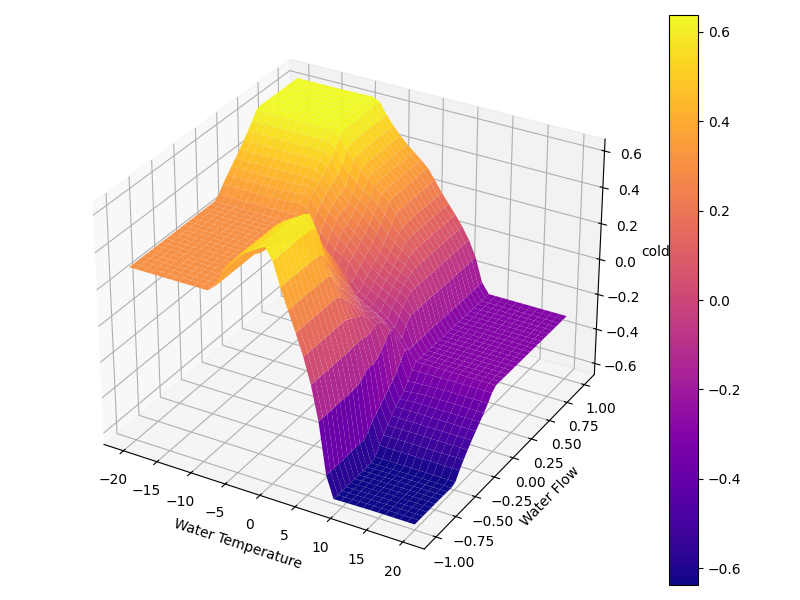
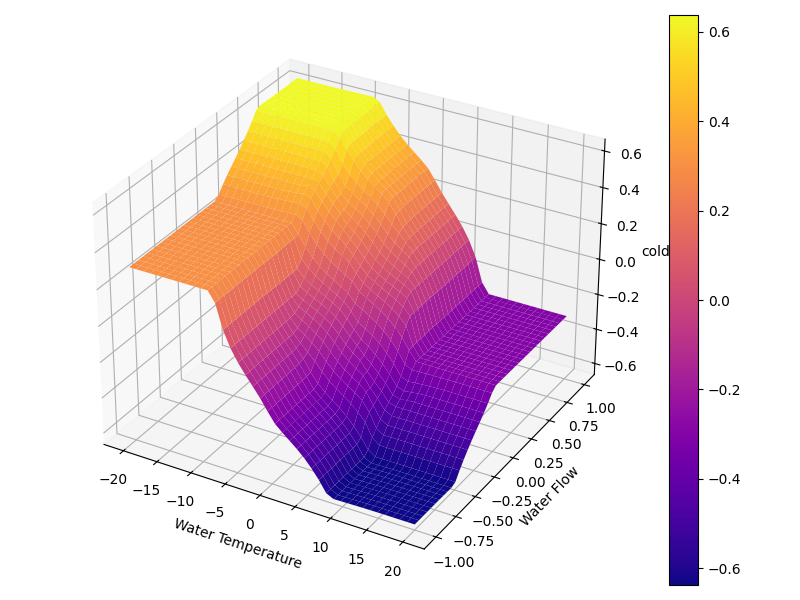
Update

Changed region(s): [[0.25, 0.36, 0.5312, 0.84]]

diff --git a/Task4/TemperatureControlInAShower.py b/Task4/TemperatureControlInAShower.py
@@ -35,22 +35,22 @@ FS.add_linguistic_variable("hot", LinguisticVariable([H_1, H_2, H_3, H_4, H_5], 
 
 # Define fuzzy rules
 R1 = "IF (temp IS cold) AND (flow IS soft) THEN (cold IS openSlow)"
-R2 = "IF (temp IS cold) AND (flow IS good) THEN (cold IS closeSLow)"
-R3 = "IF (temp IS cold) AND (flow IS hard) THEN (cold IS closeFast)"
-R4 = "IF (temp IS good) AND (flow IS soft) THEN (cold IS openSlow)"
-R5 = "IF (temp IS good) AND (flow IS good) THEN (cold IS steady)"
-R6 = "IF (temp IS good) AND (flow IS hard) THEN (cold IS closeSlow)"
-R7 = "IF (temp IS hot) AND (flow IS soft) THEN (cold IS openFast)"
-R8 = "IF (temp IS hot) AND (flow IS good) THEN (cold IS openSlow)"
-R9 = "IF (temp IS hot) AND (flow IS hard) THEN (cold IS closeSlow)"
-R10 = "IF (temp IS cold) AND (flow IS soft) THEN (hot IS openFast)"
-R11 = "IF (temp IS cold) AND (flow IS good) THEN (hot IS openSlow)"
-R12 = "IF (temp IS cold) AND (flow IS hard) THEN (hot IS closeSlow)"
-R13 = "IF (temp IS good) AND (flow IS soft) THEN (hot IS openSlow)"
-R14 = "IF (temp IS good) AND (flow IS good) THEN (hot IS steady)"
-R15 = "IF (temp IS good) AND (flow IS hard) THEN (hot IS closeSlow)"
-R16 = "IF (temp IS hot) AND (flow IS soft) THEN (hot IS openSlow)"
-R17 = "IF (temp IS hot) AND (flow IS good) THEN (hot IS closeSlow)"
+R2 = "IF (temp IS cold) AND (flow IS soft) THEN (hot IS openFast)"
+R3 = "IF (temp IS cold) AND (flow IS good) THEN (cold IS closeSlow)"
+R4 = "IF (temp IS cold) AND (flow IS good) THEN (hot IS openSlow)"
+R5 = "IF (temp IS cold) AND (flow IS hard) THEN (cold IS closeFast)"
+R6 = "IF (temp IS cold) AND (flow IS hard) THEN (hot IS closeSlow)"
+R7 = "IF (temp IS good) AND (flow IS soft) THEN (cold IS openSlow)"
+R8 = "IF (temp IS good) AND (flow IS soft) THEN (hot IS openSlow)"
+R9 = "IF (temp IS good) AND (flow IS good) THEN (cold IS steady)"
+R10 = "IF (temp IS good) AND (flow IS good) THEN (hot IS steady)"
+R11 = "IF (temp IS good) AND (flow IS hard) THEN (cold IS closeSlow)"
+R12 = "IF (temp IS good) AND (flow IS hard) THEN (hot IS closeSlow)"
+R13 = "IF (temp IS hot) AND (flow IS soft) THEN (cold IS openFast)"
+R14 = "IF (temp IS hot) AND (flow IS soft) THEN (hot IS openSlow)"
+R15 = "IF (temp IS hot) AND (flow IS good) THEN (cold IS openSlow)"
+R16 = "IF (temp IS hot) AND (flow IS good) THEN (hot IS closeSlow)"
+R17 = "IF (temp IS hot) AND (flow IS hard) THEN (cold IS closeSlow)"
 R18 = "IF (temp IS hot) AND (flow IS hard) THEN (hot IS closeFast)"
 FS.add_rules([R1, R2, R3, R4, R5, R6, R7, R8, R9, R10, R11, R12, R13, R14, R15, R16, R17, R18])
 
@@ -73,13 +73,14 @@ def ploting ():
     fig3 = FS.plot_variable(var_name='cold')
     fig4 = FS.plot_variable(var_name='hot')
 
+ploting()
 
 # Initilize System
 Shower = SH.Shower()
 start_temp = 20
 start_flow = 0.5
-FS.set_variable("temp", 0)
-FS.set_variable("flow", 0)
+FS.set_variable("temp", 20)
+FS.set_variable("flow", 0.5)
 start_time = time.time()
 last_time = time.time()
 run_time = 0
@@ -92,17 +93,26 @@ set_point_flow_logg = []
 temp_logg = []
 flow_rate_logg = []
 
-while True:
+while False:
     dt = time.time() - last_time
     last_time = time.time()
 
     #Step Input
-    if 3 <= run_time:
+    if 5 <= run_time <= 10:
         Shower.temp_set_point = 23
         Shower.flow_set_point = 0.7
-    else:
+    elif 10 <= run_time <= 15:
         Shower.temp_set_point = start_temp
         Shower.flow_set_point = start_flow
+    elif 15 <= run_time <= 20:
+        Shower.temp_set_point = 23
+        Shower.flow_set_point = 0.7
+    elif 25 <= run_time <= 30:
+        Shower.temp_set_point = start_temp
+        Shower.flow_set_point = start_flow
+    else:
+        Shower.temp_set_point = 23
+        Shower.flow_set_point = 0.7
 
     # Perform Mamdani inference
     cold = FS.Mamdani_inference()['cold']
@@ -121,15 +131,6 @@ while True:
 
     #print(f"Debugger: {cold=}, {hot=}, {temp_error=}, {flow_error=}")
 
-
-
-
-
-
-
-
-
-
     # Logger
     time_logg.append(run_time)
     set_point_temp_logg.append(Shower.temp_set_point)
@@ -140,30 +141,30 @@ while True:
 
     run_time = time.time() - start_time
 
-    if run_time > 6:
+    if run_time > 35:
         break
 
 
-# Plotter
-fig, ax = plt.subplots()
-ax.plot(time_logg,set_point_temp_logg, '-b', label='Step Input')
-ax.plot(time_logg,temp_logg, '-r', label='System Response')
-ax.set_xlabel("Time in seconds")
-ax.set_ylabel("Temperature")
-ax.set_title("Temperature with a step input", loc='left')
-ax.grid(True)
+    # Plotter
+    fig, ax = plt.subplots()
+    ax.plot(time_logg,set_point_temp_logg, '-b', label='Step Input')
+    ax.plot(time_logg,temp_logg, '-r', label='System Response')
+    ax.set_xlabel("Time in seconds")
+    ax.set_ylabel("Temperature")
+    ax.set_title("Temperature with a step input", loc='left')
+    ax.grid(True)
 
-fig1, ax1 = plt.subplots()
-ax1.plot(time_logg,set_point_flow_logg, '-b', label='Step Input')
-ax1.plot(time_logg,flow_rate_logg, '-r', label='System Response')
-ax1.set_xlabel("Time in seconds")
-ax1.set_ylabel("Flow Rate")
-ax1.set_title("Flow Rate with a step input", loc='left')
-ax1.grid(True)
-fig.show()
-fig1.show()
-plt.show()
-print("Success")
+    fig1, ax1 = plt.subplots()
+    ax1.plot(time_logg,set_point_flow_logg, '-b', label='Step Input')
+    ax1.plot(time_logg,flow_rate_logg, '-r', label='System Response')
+    ax1.set_xlabel("Time in seconds")
+    ax1.set_ylabel("Flow Rate")
+    ax1.set_title("Flow Rate with a step input", loc='left')
+    ax1.grid(True)
+    fig.show()
+    fig1.show()
+    plt.show()
+    print("Success")
 
 
     

diff --git a/Task4/Shower.py b/Task4/Shower.py
@@ -17,7 +17,7 @@ class Shower:
         #Max Flow
         max_flow_constant = 1
         signal_generator = 0 * np.sin(0.3 * t)
-        max_flow = max_flow_constant + signal_generator
+        max_flow = max_flow_constant
 
         #Flow_rate
         flow_rate_hot = integrator * (integrator <= max_flow) + max_flow * (integrator > max_flow)
@@ -25,7 +25,7 @@ class Shower:
         #Temp
         temp_hot = 30
 
-        print(f"debugger: {integrator=}")
+        #print(f"debugger: {integrator=}")
 
         return flow_rate_hot, temp_hot
 
@@ -37,7 +37,7 @@ class Shower:
         #Max Flow
         max_flow_constant = 1
         signal_generator = 0 * np.sin(0.3 * t)
-        max_flow = max_flow_constant + signal_generator
+        max_flow = max_flow_constant
 
         #Flow_rate
         flow_rate_cold = integrator * (integrator <= max_flow) + max_flow * (integrator > max_flow)
@@ -50,8 +50,8 @@ class Shower:
     def temp_error(self, flow_rate_hot, temp_hot, flow_rate_cold, temp_cold, t):
         
         #temp_variation = 4 * signal.square(0.214320 * t)
-        temp_set_point = self.temp_set_point #+ temp_variation
-        temp = ((flow_rate_hot * temp_hot + flow_rate_cold * temp_cold)/(flow_rate_hot + flow_rate_cold))
+        temp_set_point = self.temp_set_point  #+ temp_variation
+        temp = (flow_rate_hot * temp_hot + flow_rate_cold * temp_cold)/(flow_rate_hot + flow_rate_cold)
 
         error =  temp - temp_set_point
 
@@ -66,5 +66,7 @@ class Shower:
         flow_rate = flow_rate_hot + flow_rate_cold
 
         error = flow_rate - flow_set_point
+
+        #print(f"Debugging {flow_rate=}, {flow_set_point=}, {error=}")
 
         return error, flow_rate
